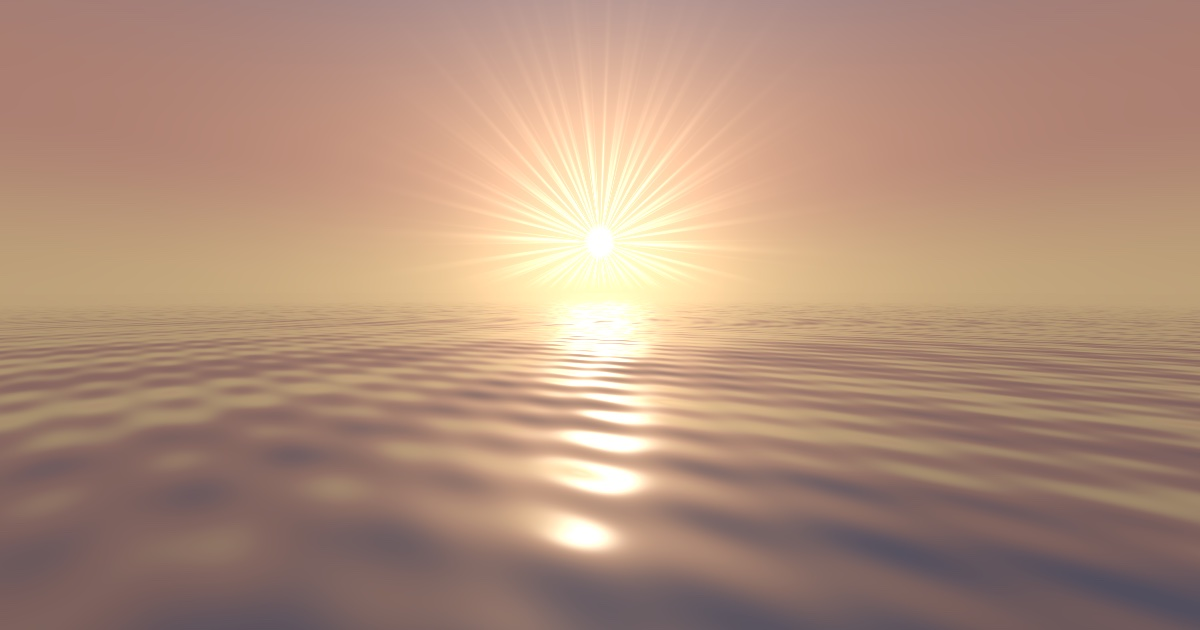
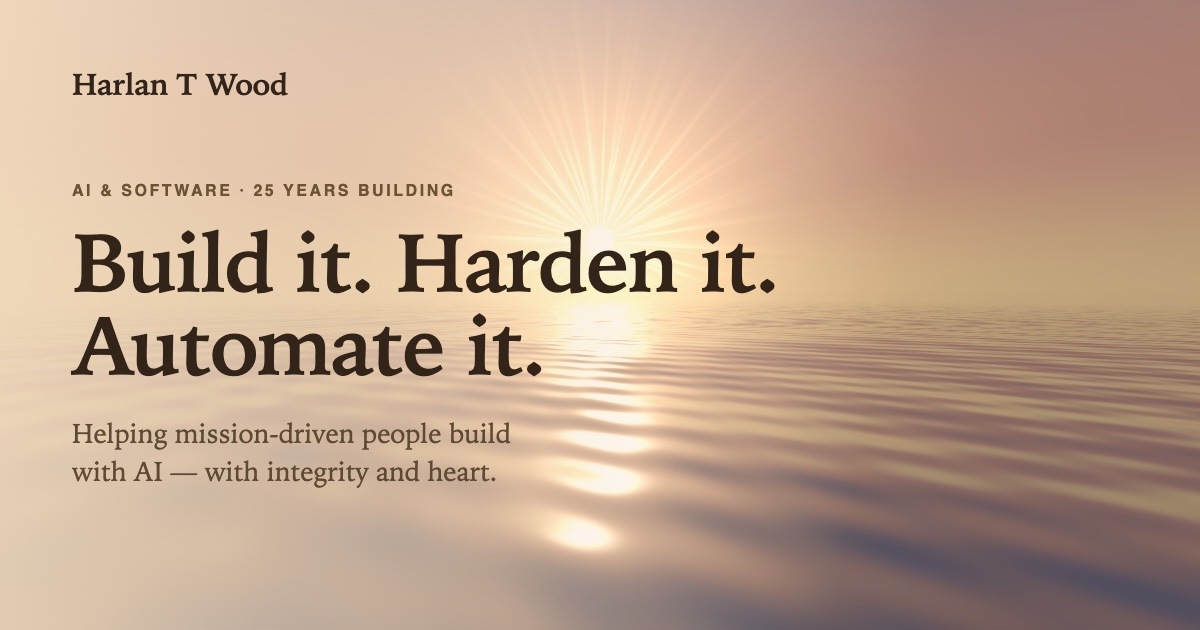
next: branded OG card; swap pull-quotes to Christina Wodtke and Gabe Yarra
- Preview image now carries the wordmark, headline, and tagline over the
  sunrise (was a bare landscape)
- Cut Adam Apollo and Patrick Donohoe; swap in Christina Wodtke (after the
  capability claims) and Gabe Yarra (before the ask)

Claude-Session: https://claude.ai/code/session_01L9QuE2Jn43me3PazFuJrES

diff --git a/next/index.html b/next/index.html
@@ -897,18 +897,18 @@
         </div>
       </section>
 
-      <!-- ===================================================== Pull-quote: Adam Apollo -->
+      <!-- ===================================================== Pull-quote: Christina Wodtke -->
       <section class="witness">
         <div class="wrap reveal">
           <figure class="quote">
             <blockquote>
-              &ldquo;Harlan seamlessly integrates advanced programming techniques, human psychology,
-              and extraordinary skills into practical visions and projects. For any software or
-              creative systems development, Harlan is my first choice for consultation, creation of a
-              critical-path, and implementation of the project.&rdquo;
+              &ldquo;Harlan is one of those too-rare people who can see what needs to be done, how to
+              cut the problem down into bite-sized pieces, and then knock the code out of the
+              ballpark. Both a pragmatic programmer and an agile project manager, I&rsquo;d work with
+              him again on any project that needs a guy who makes things happen!&rdquo;
             </blockquote>
             <figcaption>
-              <b>Adam Apollo</b> &mdash; Creative Systems Architect, Access Granted, Inc
+              <b>Christina Wodtke</b> &mdash; Principal Product Manager, LinkedIn
             </figcaption>
           </figure>
         </div>
@@ -1104,17 +1104,17 @@
         </div>
       </section>
 
-      <!-- ===================================================== Pull-quote: Patrick Donohoe -->
+      <!-- ===================================================== Pull-quote: Gabe Yarra -->
       <section class="witness band">
         <div class="wrap reveal">
           <figure class="quote">
             <blockquote>
-              &ldquo;I have an unspoken guarantee with Harlan that when I bring him an urgent problem,
-              it will be solved, every time. I&rsquo;ve come to rely on his speed and
-              thoroughness.&rdquo;
+              &ldquo;Harlan was a progressive force in the company, promoting agile practices and
+              helping us improve the way we made software.&hellip; More than anything, Harlan brings
+              a passion for developing software the right way.&rdquo;
             </blockquote>
             <figcaption>
-              <b>Patrick Donohoe</b> &mdash; Director, Peartruck Design
+              <b>Gabe Yarra</b> &mdash; Senior Software Engineer, Wireless Generation
             </figcaption>
           </figure>
         </div>
